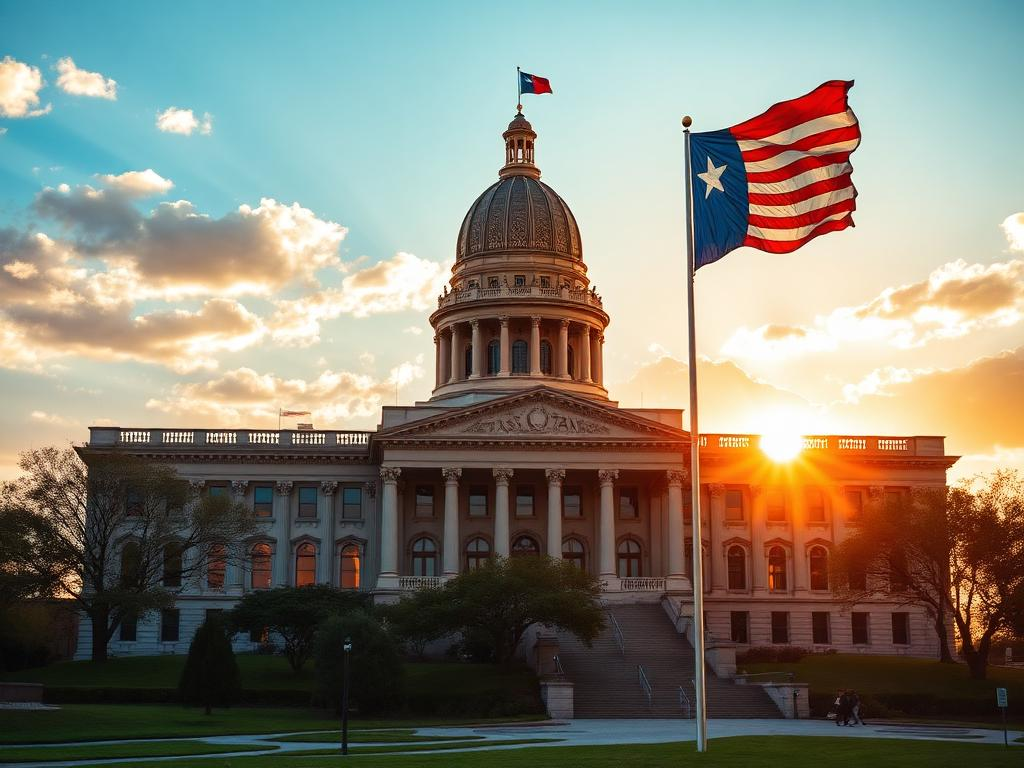
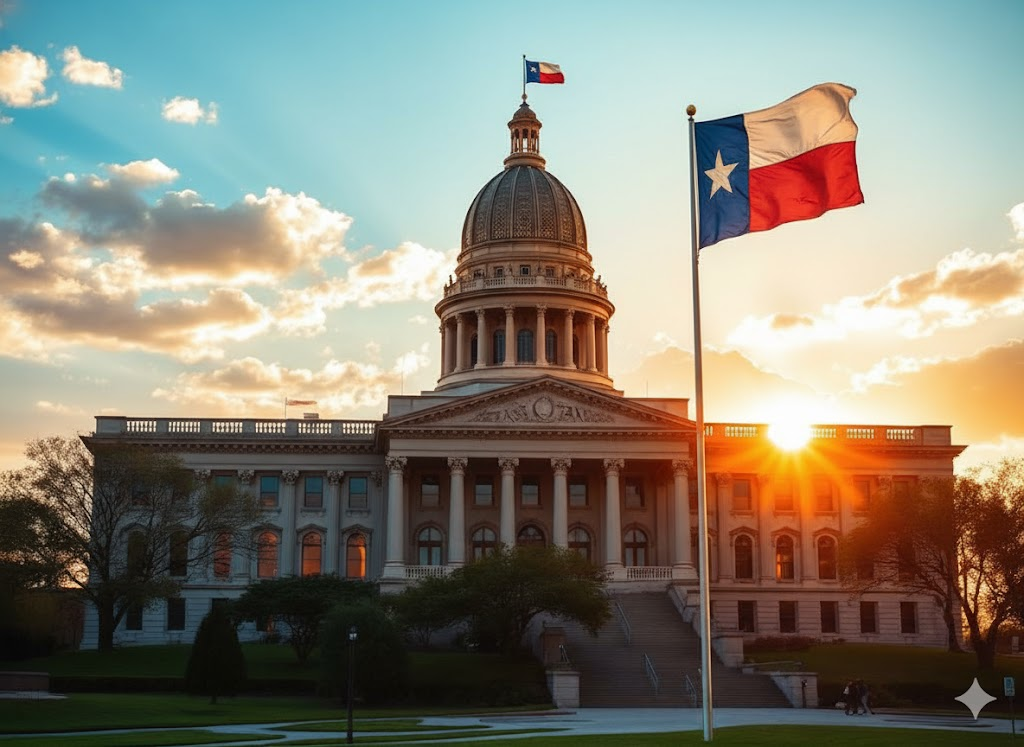
code updated!

diff --git a/src/app/page.js b/src/app/page.js
@@ -285,21 +285,21 @@ export default function Home() {
                 {/* Bullet points */}
                 <div className="space-y-5 mb-10">
                   <div className="space-y-5">
-                    <div className="flex bg-cardBg/40 items-center space-x-4 border border-border/70 rounded-3xl py-4 px-5">
+                    <div className="flex bg-cardBg/40 items-center space-x-4 border border-border/70 rounded-3xl p-5">
                       <p className="text-[25px]">✈</p>
-                      <p className="text-lg text-foreground/85 leading-[1.4]">
+                      <p className="text-lg text-foreground/70 leading-[1.3]">
                         Imigrante que passou pelo processo real e entendeu os erros e acertos em sua jornada.
                       </p>
                     </div>
-                    <div className="flex bg-cardBg/40 items-center space-x-4 border border-border/70 rounded-3xl py-4 px-5">
-                      <p className="text-[25px]">🇧🇷</p>
-                      <p className="text-lg text-foreground/85 leading-[1.4]">
+                    <div className="flex bg-cardBg/40 items-center space-x-4 border border-border/70 rounded-3xl p-5">
+                      <img src="/imagens/br.png" className="w-[30px]"/>
+                      <p className="text-lg text-foreground/70 leading-[1.3]">
                         Mentor que ajuda brasileiros a terem conexões reais e networking estratégico no estado mais conservador dos EUA.
                       </p>
                     </div>
-                    <div className="flex bg-cardBg/40 items-center space-x-4 border border-border/70 rounded-3xl py-4 px-5">
-                      <p className="text-[25px]">🇺🇸</p>
-                      <p className="text-lg text-foreground/85 leading-[1.4]">
+                    <div className="flex bg-cardBg/40 items-center space-x-4 border border-border/70 rounded-3xl p-5">
+                    <img src="/imagens/us.png" className="w-[30px]"/>
+                      <p className="text-lg text-foreground/70 leading-[1.3]">
                         Histórias e informações reais sobre o dia a dia no Texas.
                       </p>
                     </div>
